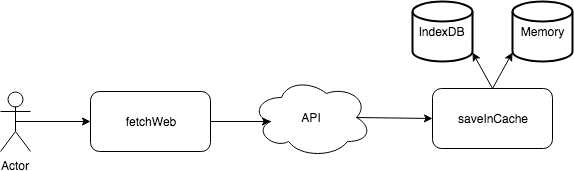
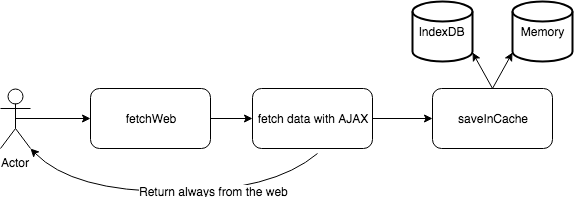
Fix a bug that was not setting the requestId. Update the diagram for fetchWeb. Add more detail about the custom id.

diff --git a/test/dataAccessGateway.test.ts b/test/dataAccessGateway.test.ts
@@ -65,7 +65,7 @@ describe("DataAccessSingleton", () => {
             }
         };
         ajaxResponse = {
-            status: 500,
+            status: 200,
             data: "payload",
             statusText: "Good",
             config: {},
@@ -977,6 +977,41 @@ describe("DataAccessSingleton", () => {
         });
     });
 
+    describe("fetchWeb", () => {
+        let request: AjaxRequest;
+        beforeEach(() => {
+            request = {
+                request: {
+                    url: "http://request"
+                }
+            };
+            das.setConfiguration({ isCacheEnabled: true });
+            das.setDefaultRequestId = jest.fn();
+            das.setDefaultCache = jest.fn();
+            das.fetchAndSaveInCacheIfExpired = jest.fn().mockResolvedValue(ajaxResponse);
+            das.tryMemoryCacheFetching = jest.fn().mockRejectedValue("test");
+        });
+        it("always call the default request id configuration", () => {
+            das.fetchWeb(request);
+            expect(das.setDefaultRequestId).toHaveBeenCalledTimes(1);
+        });
+        it("always call the fetch and save", () => {
+            das.fetchWeb(request);
+            expect(das.fetchAndSaveInCacheIfExpired).toHaveBeenCalledTimes(1);
+        });
+        it("never call the default cache", () => {
+            das.fetchWeb(request);
+            expect(das.setDefaultCache).toHaveBeenCalledTimes(0);
+        });
+        it("never call memory cache", () => {
+            das.fetchWeb(request);
+            expect(das.tryMemoryCacheFetching).toHaveBeenCalledTimes(0);
+        });
+        // fit("calls logInfo", () => {
+        //     das.fetchWeb(request);
+        //     expect(das.options.logInfo).toHaveBeenCalledTimes(1);
+        // });
+    });
     // describe("addInPersistentStore", () => {
     //     describe("when transaction is successful", () => {
     //         beforeEach(() => {

diff --git a/src/dataAccessGateway.ts b/src/dataAccessGateway.ts
@@ -95,6 +95,7 @@ export class DataAccessSingleton implements IDataAccessSingleton {
     }
 
     public fetchWeb<T>(request: AjaxRequest): Promise<DataResponse<T>> {
+        this.setDefaultRequestId(request); // Default values        
         return this.fetchAndSaveInCacheIfExpired<T>(request, DataSource.HttpRequest)
             .then((response: DataResponse<T>) => {
                 this.logInfo({ action: DataAction.Use, id: request.id!, source: DataSource.HttpRequest });

diff --git a/readme.md b/readme.md
@@ -38,7 +38,7 @@ This mode work well in a system where you have multiple life cycle loops very fa
 
 ### Fetch Web
 
-The fetch web is a side function that allows to always returns the response from the web. However, it still stores the result into the caches. It allows to be 100% to get the result from the web while allowing other calls that leverage the cache to use the response. The function is connected to the `logInfo` allowing to keep track of the source of the information.
+The fetch web is a side function that allows to always returns the response from the web. However, it still stores the result into the caches. It allows to be 100% to get the result from the web while allowing other calls that leverage the cache to use the response. It also benefits of the on-going request feature which avoid multiple identical request to be performed at the same time reducing duplicate request. The function is connected to the `logInfo` allowing to keep track of the source of the information.
 
 ![alt text](https://github.com/MrDesjardins/dataaccessgateway/raw/master/images/fetchWebFlowDiagram.png "Fetch Web Flow Diagram")
 
@@ -77,7 +77,7 @@ const promiseResult = DataAccessGateway("AppName").fetchFast<YourEntityResponse>
 ``` 
 
 ### Custom key
-It's possible to define custom key if the URL is not unique enough by adding an `id`.
+It's possible to define a custom key if the URL is not unique enough by adding an `id`. The custom key is required when fetching with a same URL different data. That can happen when using POST to fetch data. By default, the library uses the URL as a unique identifier. The custom key gives you the flexibility to manually craft a unique key allowing the same URL to cache and to handle on-going Ajax call uniquely.
 ``` 
  DataAccessGateway("AppName").fetchFast<YourEntityResponse>({
                             id: "myUniqueKey",
